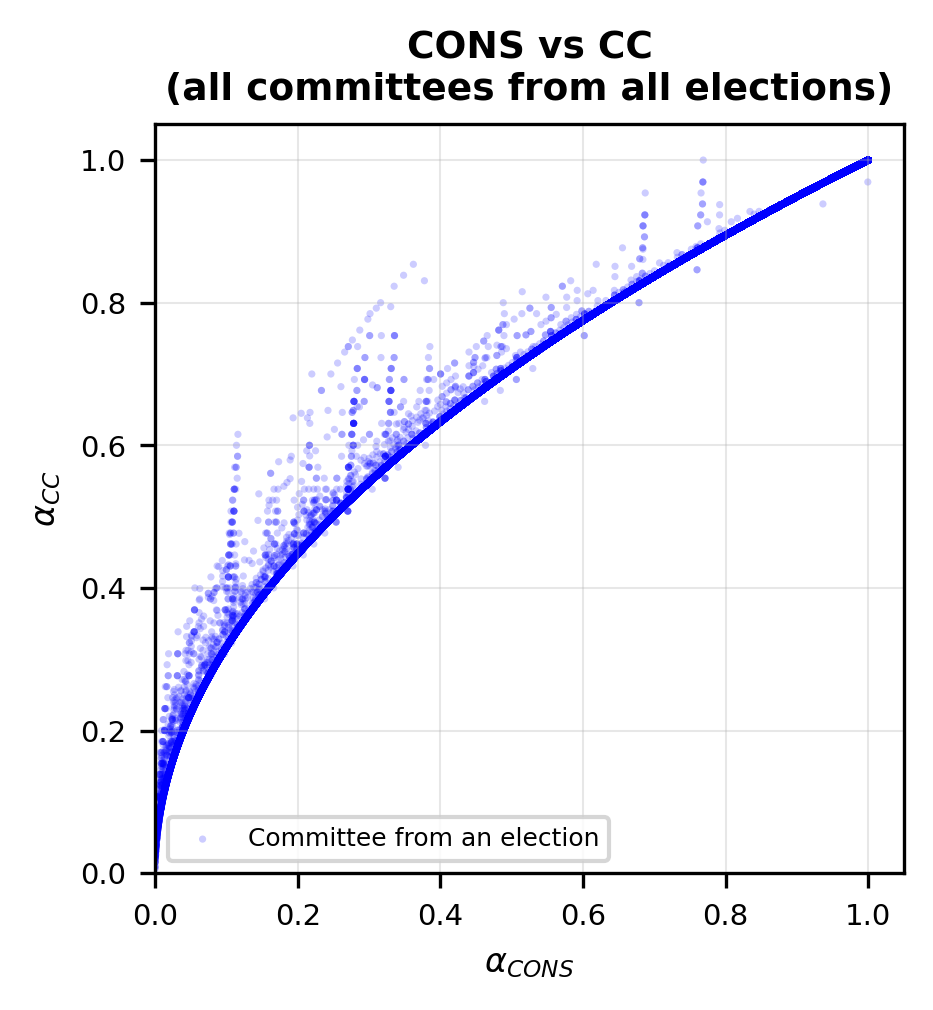
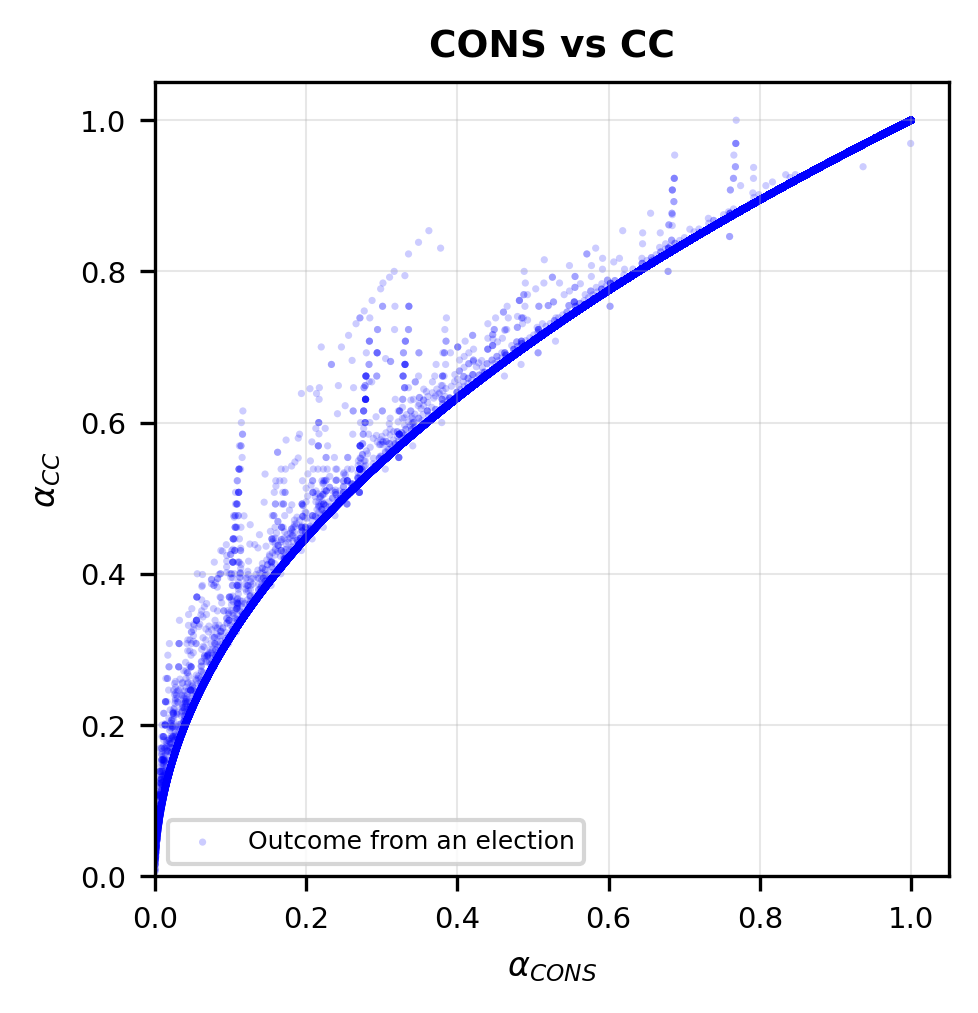
update cc plot

diff --git a/scripts/plot_cons_vs_cc_scatter.py b/scripts/plot_cons_vs_cc_scatter.py
@@ -63,12 +63,12 @@ def main():
     
     # Plot all points
     ax.scatter(all_cons, all_cc, alpha=0.2, color="blue", s=3, edgecolors="none",
-               label="Committee from an election")
+               label="Outcome from an election")
     
     # Formatting
     ax.set_xlabel(r"$\alpha_{CONS}$", fontsize=8)
     ax.set_ylabel(r"$\alpha_{CC}$", fontsize=8)
-    ax.set_title("CONS vs CC\n(all committees from all elections)", fontsize=9, fontweight="bold")
+    ax.set_title("CONS vs CC", fontsize=9, fontweight="bold")
     ax.set_xlim(0, 1.05)
     ax.set_ylim(0, 1.05)
     ax.set_aspect("equal")
